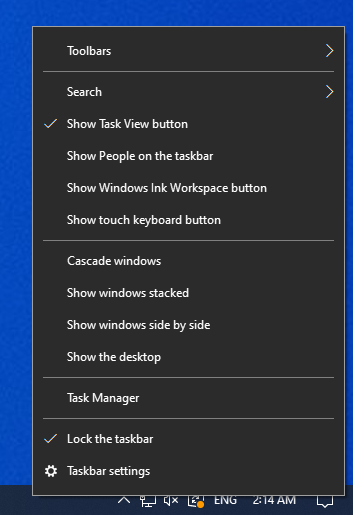
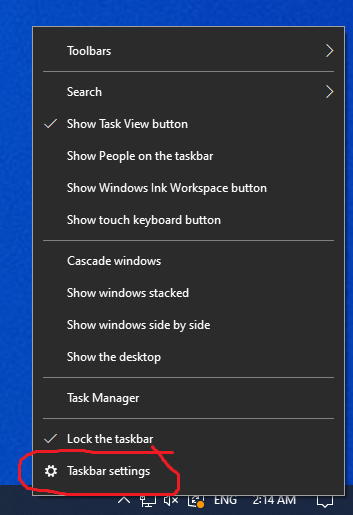
fix: change image

Changed region(s): [[0.0312, 0.8699, 0.5297, 0.9631]]

diff --git a/Form1.cs b/Form1.cs
@@ -23,6 +23,7 @@ namespace CoreTracker
                 action();
                 timer.Stop();
                 noti.Dispose();
+                btn_tray.Enabled = true;
             };
             noti.ShowBalloonTip(2000, "[CoreTracker Notice] : Auto Start", "Soon minimize to tray icon", ToolTipIcon.Info);
             timer.Start();
@@ -88,14 +89,6 @@ namespace CoreTracker
             chk_disable_alert.Checked = Ragistry.ChecDisableBusyAlert();
 
             bool auto_run = Ragistry.CheckAutoRun();
-            if (auto_run)
-            {
-                btn_tray.Enabled = false;
-                // auto run
-                ch_auto_start.Checked = true;
-                // start new thred for hide
-                SetTimeout(toggleMe, 3000);
-            }
             init_CPU_Watcher(auto_run);
             l_version.Text = VERSION;
 
@@ -115,6 +108,16 @@ namespace CoreTracker
             {
                 // recommended enable this setting
                 ch_trayicon_setting.Checked = toggleTraySetting();
+            }
+
+            
+            if (auto_run)
+            {
+                btn_tray.Enabled = false;
+                // auto run
+                ch_auto_start.Checked = true;
+                // start new thred for hide
+                SetTimeout(toggleMe, 3000);
             }
         }
 
@@ -501,6 +504,8 @@ namespace CoreTracker
     }
     #endregion
 }
+
+
 
 
 

diff --git a/Form1.Designer.cs b/Form1.Designer.cs
@@ -436,6 +436,7 @@
             this.FormBorderStyle = System.Windows.Forms.FormBorderStyle.None;
             this.Icon = ((System.Drawing.Icon)(resources.GetObject("$this.Icon")));
             this.Name = "Form1";
+            this.StartPosition = System.Windows.Forms.FormStartPosition.CenterScreen;
             this.FormClosed += new System.Windows.Forms.FormClosedEventHandler(this.Form1_FormClosing);
             this.Load += new System.EventHandler(this.Form1_Load);
             this.Resize += new System.EventHandler(this.Form1_Resize);

diff --git a/README.md b/README.md
@@ -1,16 +1,19 @@
 
 
-# CoreTracker
+# CoreTracker 
 
 ![GitHub release (latest by date)](https://img.shields.io/github/v/release/Fhwang0926/CoreTracker)
 [![License: MIT](https://img.shields.io/badge/License-MIT-yellow.svg)](https://opensource.org/licenses/MIT)
-[![Status: ing](https://img.shields.io/badge/Status-ing-red.svg)](https://github.com/Fhwang0926/CoreTracker)
+[![Status: ing](https://img.shields.io/badge/Status-dev_ing-red.svg)](https://github.com/Fhwang0926/CoreTracker)
 
 ***
 We can see by graphic about the status of Logical Processor
 
-<img src="https://raw.githubusercontent.com/Fhwang0926/CoreTracker/master/form.ico" width="150">
-<img src="https://raw.githubusercontent.com/Fhwang0926/CoreTracker/master/img/cpu.png" width="150">
+<img src="https://raw.githubusercontent.com/Fhwang0926/CoreTracker/master/form.ico" width="75">
+<img src="https://raw.githubusercontent.com/Fhwang0926/CoreTracker/master/img/cpu.png" width="75">
+<img src="https://raw.githubusercontent.com/Fhwang0926/CoreTracker/master/img/ram.png" width="75">
+<img src="https://raw.githubusercontent.com/Fhwang0926/CoreTracker/master/img/gpu.png" width="75">
+<img src="https://raw.githubusercontent.com/Fhwang0926/CoreTracker/master/img/mainboard.png" width="75">
 
 _ _ _
 
@@ -29,32 +32,51 @@ ___
 ## 1. What is it
 
 ___
-> now almost people use PC and some others consider them's PC Performance(someone check the benchmark on PC)
-> don't forget what is important, performance of system when you using it!!!
-> not important just benchmark test
-> but usually program is open new windows and check it that performance data in program
-> i very very very hate it style
-> i just want to see on my computer performance like widget when i using PC
-> so i developed it kkkk
 
-### one-sentence summary
+### "Check the status of my computer with Trayicon."
 
-> " i just want to see on my computer performance like widget when i using PC "
-___
+> It's a time when most people learn coding and they use PCs a lot.
+> Some developers consider performance.
+> Some YouTubers test their benchmarks.
+> Some people surf the web or create documents
+> 
+> Many benchmarks and resource checking programs are not intuitive.
+> I need to pop up a new window, and I need to do more.
+> 
+> I hate it so much.
+> 
+> In developing as usual.
+> As usual, on the Internet.
+> Writing the document as usual.
+> 
+> My computer is
+> 
+> How busy are you?
+> When are you busy?
+> When is the load in my work?
+> 
+> I made it because I wanted to check.
+> 
+> Do you know when your computer is busy?
+> 
+> "As usual" is important.
 
 ## 2. how work it
 
-> status is usage by logical core
-> show core status using of tray icon
-> logical core status(usage %) by logical core
+> find data => status => display on trayicon
+
+### Display criteria for tray icons
 
 | Status | Color | Example |
 | ------ | ------ | ------ |
-| 0 <= status < 10 | GREEN | <img src="https://raw.githubusercontent.com/Fhwang0926/CoreTracker/master/Properties/status/10.ico" width="20"> |
-| 10 <= status < 20 | YELLO | <img src="https://raw.githubusercontent.com/Fhwang0926/CoreTracker/master/Properties/status/20.ico" width="20"> |
-| 20 <= status < 40 | ORANGE | <img src="https://raw.githubusercontent.com/Fhwang0926/CoreTracker/master/Properties/status/40.ico" width="20"> |
-| 40 <= status < 60 | DEEPORANG | <img src="https://raw.githubusercontent.com/Fhwang0926/CoreTracker/master/Properties/status/60.ico" width="20"> |
-| 60 <= status | READ  | <img src="https://raw.githubusercontent.com/Fhwang0926/CoreTracker/master/Properties/status/80.ico" width="20"> |
+| 0 <= status < 20 | GREEN | <img src="https://raw.githubusercontent.com/Fhwang0926/CoreTracker/master/Properties/status/10.ico" width="20"> |
+| 20 <= status < 40 | YELLO | <img src="https://raw.githubusercontent.com/Fhwang0926/CoreTracker/master/Properties/status/20.ico" width="20"> |
+| 40 <= status < 60 | ORANGE | <img src="https://raw.githubusercontent.com/Fhwang0926/CoreTracker/master/Properties/status/40.ico" width="20"> |
+| 60 <= status < 80 | ORANGE | <img src="https://raw.githubusercontent.com/Fhwang0926/CoreTracker/master/Properties/status/60.ico" width="20"> |
+| 80 <= status | RED  | <img src="https://raw.githubusercontent.com/Fhwang0926/CoreTracker/master/Properties/status/80.ico" width="20"> |
+
+### Sample taskbar
+![alt text](https://raw.githubusercontent.com/Fhwang0926/CoreTracker/master/img/taskbar.png "Logo Title Text 1")
 
 
 Function Explain Start
@@ -63,6 +85,13 @@ Function Explain Start
 | ------ | ------ |
 | Auto Update | Auto-update check and notice, if you want to can continue update from recently version |
 | Auto Start | Auto start when system turn on|
+| CPU Temperature | Displays cpu temperature using trayicon|
+| GPU(Graphic) Temperature | Displays GPU(Graphic temperature using trayicon|
+| Mainboard Temperature | Displays Mainboard temperature  using trayicon|
+| RAM Usage | Displays RAM Usage using trayicon|
+| Show TrayIcon | Can enable or disable showing tray icon on the taskbar(is recommended setting)|
+| Disabled Busy Alert | Display a notification when CPU utilization is 80% overall (if there is a continuous load, it will be displayed at regular intervals). |
+| Refresh speed | trayicon refresh cycle setting : Fast(:=1s) or Normal(:=3s) or Slow(:=5s)|
 | [Icon-Menu]Hide | The CoreTracker program Hide main windows |
 | [Icon-Menu]Show | The CoreTracker program Show main windows |
 | [Icon-Menu]Exit | The CoreTracker program close action |
@@ -74,11 +103,9 @@ Function Explain Start
 [CoreTarackerHelper] : excute tray icon refresh when uninstall using
 
 Function Explain End
-
-
 ___
 
-## DEMO with youtube (Please Attention Task bar)
+## DEMO with youtube (Attention Task bar)
 
 
 [![CoreTracker](http://img.youtube.com/vi/rdZ1RNOGpvo/0.jpg)](http://www.youtube.com/watch?v=rdZ1RNOGpvo "CoreTracker")
@@ -91,17 +118,20 @@ ___
 
 > <= dotnet framework 3.5
 
-2. Many core( ? kkkk )  :D :D :D
+2. Many core(?)  :D :D :D
 3. testing tool(if you want to) ~ is optional
 
+### Set Trayicon area manual
+> trayicon area setting on windows(can setting toggle on CoreTracker application)
+#### 1. Click mouse right button on taskbar
+<img src="https://raw.githubusercontent.com/Fhwang0926/CoreTracker/master/img/set_trayicon_1.png" width="300">
+
+#### 2. Click trayicon area setting
+<img src="https://raw.githubusercontent.com/Fhwang0926/CoreTracker/master/img/set_trayicon_2.png" width="300">
+
+#### 3. Can set all show tray icon on the taskbar or selected application tray icon on the taskbar
+<img src="https://raw.githubusercontent.com/Fhwang0926/CoreTracker/master/img/set_trayicon_3.png" width="300">
 ___
-
-## trayicon area setting on windows(can setting toggle on CoreTracker application)
-
-1. mouse right click on taskbar
-2. open taskbar setting
-3. Click setting is "Select the icon to display on the taskbar"
-4. Enable CoreTracker or enable all trayicon(We recommend choosing a wide monitor)
 
 ## New Features
 
